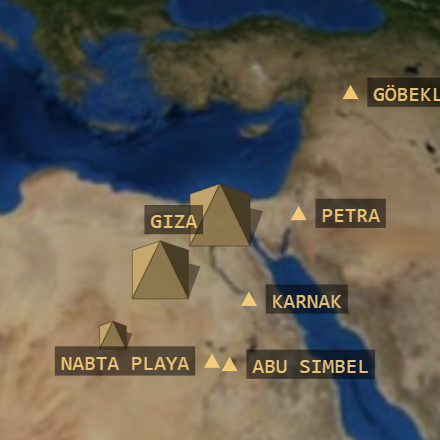
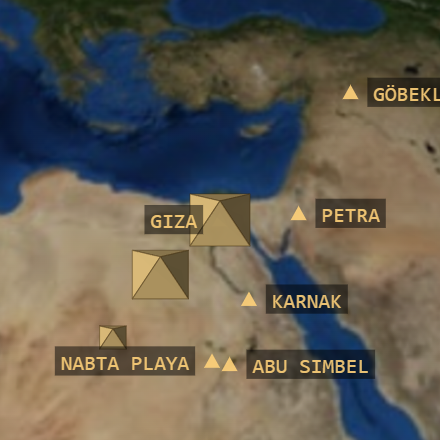
Pyramids at true proportions: Khufu 146 m tall on a 230 m base, the cast shadow carries the depth

Changed region(s): [[0.2955, 0.4136, 0.5909, 0.6795], [0.2364, 0.7091, 0.2955, 0.7977]]

diff --git a/index.html b/index.html
@@ -3138,7 +3138,7 @@ function drawPyramids(sx, sy, RZ, sunV) {
   if (U.z < 0.04) return;                                       // round the back, or on the limb edge-on
   const E = v3n(v3s(orthV(GIZA.lon + 0.01, GIZA.lat, earthTiltDraw), U));   // east and north along the ground there
   const N = v3n(v3s(orthV(GIZA.lon, GIZA.lat + 0.01, earthTiltDraw), U));
-  const B = Math.max(7, Math.min(30, RZ * 0.052)), lay = 0.7, tall = 1.9;   // the Great Pyramid's base in pixels; the layout pulled in a little so the three stay a group; heights raised so the faces read from above
+  const B = Math.max(7, Math.min(30, RZ * 0.052)), lay = 0.7, tall = 1.0;   // the Great Pyramid's base in pixels; the layout pulled in a little so the three stay a group; true proportions (Khufu: 146 m tall on a 230 m base), the cast shadow says the rest
   const L = v3n(sunV), fade = Math.min(1, U.z * 3);
   const lu = v3d(L, U), le = v3d(L, E), ln = v3d(L, N);          // the sun in Giza's own frame: how high, and from where
   const base = { x: U.x * RZ, y: U.y * RZ, z: U.z * RZ };

diff --git a/sw.js b/sw.js
@@ -3,7 +3,7 @@
    and the two data files are all held locally. Live things (the travellers board, the satellite
    tiles of your own roof) are tried on the network first and simply fall away when there is none. */
 
-const VER = "ce5-v33";
+const VER = "ce5-v34";
 const SHELL = VER + "-shell";
 const LIVE = VER + "-live";
 
